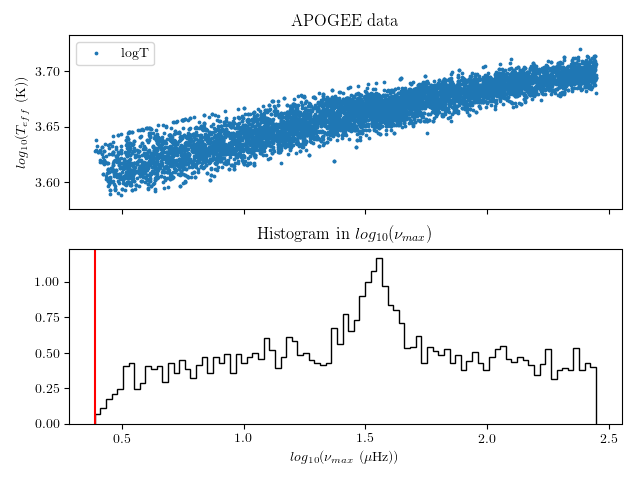
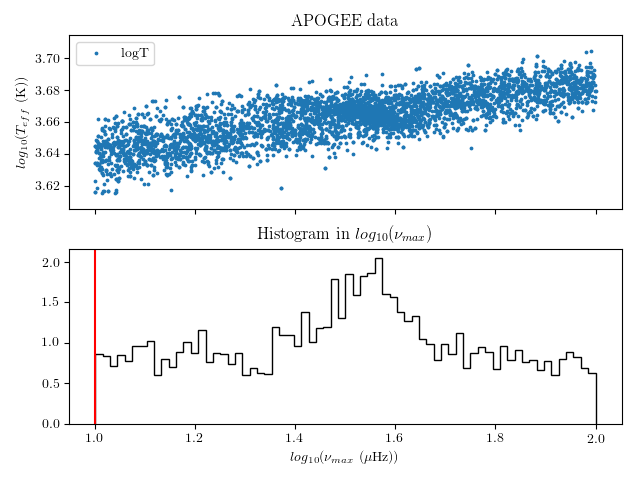
Tested use of a top hat background model (with no free parameters). Functions okay, but the lack of free parameters and the rigidity of the model means it fails to properly fit tail ends of the lognumax distribution

diff --git a/RGBb_mixmod.py b/RGBb_mixmod.py
@@ -42,7 +42,7 @@ def get_values(style):
         df['lognumax'] = np.log10(df.numax)
 
         df = df.sort_values(by=['numax'])
-
+        df = df[(df.lognumax > 1.) & (df.lognumax < 2.)]
 
     return df.lognumax, df.logT, df
 
@@ -58,7 +58,7 @@ class cLikelihood:
         return self.Model.bivar_gaussian(p)
 
     def lnlike_bg(self, p):
-        return self.Model.exp_x(p) + self.Model.gauss_line_y(p)
+        return self.Model.tophat_x(p) + self.Model.gauss_line_y(p)
 
     def lnprob(self, p):
         Q = p[-1]
@@ -202,14 +202,14 @@ if __name__ == '__main__':
 
 ####---SETTING UP MCMC
     labels_mc = [r"$\mu_x$", r"$\mu_y$", r"$\sigma_x$", r"$\sigma_y$", r"$\rho$",\
-                r"$\lambda$","m","c",r"$\sigma$",\
+                "m","c",r"$\sigma$",\
                 "$Q$"]
     start_params = np.array([lnuguess, lteffguess, 0.07, np.std(y), -0.8,\
-                            1.8, fn[0], fn[1], np.std(y-fy),\
+                            fn[0], fn[1], np.std(y-fy),\
                             0.5])
     bounds = [(lnuguess-.1, lnuguess+.1,), (lteffguess-0.05,lteffguess+0.05),\
                 (0.01,0.1), (0.1*np.std(y), 1.5*np.std(y)), (-1., 0.),\
-                (1.4, 2.2), (fn[0]*0.8, fn[0]*1.2), (fn[1]*0.8, fn[1]*1.2),\
+                (fn[0]*0.8, fn[0]*1.2), (fn[1]*0.8, fn[1]*1.2),\
                 (np.std(y-fy)*0.5, np.std(y-fy)*1.5),\
                 (0,1)]
 ####---CHECKING MODELS BEFORE RUN
@@ -219,15 +219,15 @@ if __name__ == '__main__':
 
     #Getting other probability functions
     ModeLLs = cLLModels.LLModels(x, y, labels_mc)
-    exp_x = np.exp(ModeLLs.exp_x(start_params))
+    # exp_x = np.exp(ModeLLs.exp_x(start_params))
+    tophat_x = np.exp(ModeLLs.tophat_x(start_params))
     line_y = np.exp(ModeLLs.gauss_line_y(start_params))
     bi_x, bi_y = ModeLLs.return_bivar_sologauss(start_params)
 
-    fig = probability_plot(x, y, fy, X, Y, bins, exp_x, line_y, bi_g, bi_x, bi_y)
+    fig = probability_plot(x, y, fy, X, Y, bins, tophat_x, line_y, bi_g, bi_x, bi_y)
     fig.savefig('Output/visual_RGB.png')
     plt.show()
     plt.close('all')
-    sys.exit()
 
 ####---RUNNING MCMC
     ModeLLs = cLLModels.LLModels(x, y, labels_mc)
@@ -265,11 +265,12 @@ if __name__ == '__main__':
 
     #Getting other probability functions
     ModeLLs = cLLModels.LLModels(x, y, labels_mc)
-    exp_x = np.exp(ModeLLs.exp_x(res))
+    # exp_x = np.exp(ModeLLs.exp_x(start_params))
+    tophat_x = np.exp(ModeLLs.tophat_x(start_params))
     line_y = np.exp(ModeLLs.gauss_line_y(res))
     bi_x, bi_y = ModeLLs.return_bivar_sologauss(res)
 
-    fig = probability_plot(x, y, resy, X, Y, bins, exp_x, line_y, bi_g, bi_x, bi_y)
+    fig = probability_plot(x, y, resy, X, Y, bins, tophat_x, line_y, bi_g, bi_x, bi_y)
     fig.savefig('Output/visual_result_RGB.png')
     plt.show()
     plt.close('all')

diff --git a/cLLModels.py b/cLLModels.py
@@ -53,7 +53,7 @@ class LLModels:
 
     def tophat_x(self, p):
         '''A simple top hat probability function normalised in x space'''
-        z = p[self.locz]
+        z = 1
 
         #Calculating the likelihood in the X direction with appropriate normalization
         A = (z*self.x.max() - z*self.x.min())**-1
